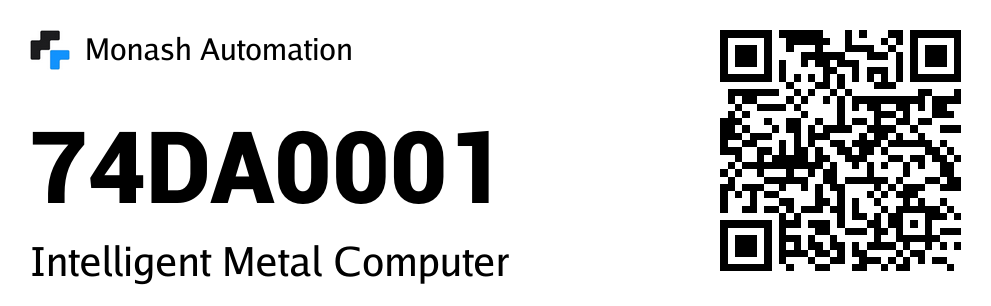
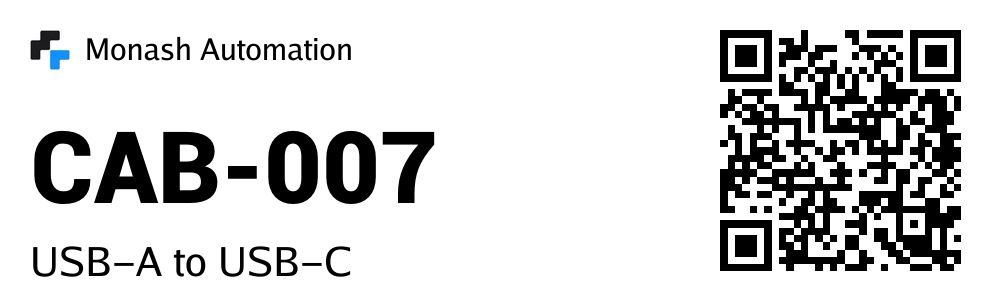
feat: add small cable label support and update README

Changed region(s): [[0.7265, 0.0882, 0.9687, 0.9118], [0.0303, 0.4118, 0.5146, 0.6765], [0.0303, 0.7941, 0.5146, 0.9412]]

diff --git a/format.go b/format.go
@@ -108,6 +108,66 @@ func formatSmallLabel(itemId, serial, name string) error {
 	return png.Encode(outFile, canvas)
 }
 
+func formatSmallCableLabel(itemId, serial, name string) error {
+	// DK-11204 cable label: left=text, middle=empty (cable gap), right=QR
+	canvas := image.NewRGBA(image.Rect(0, 0, SMALL_WIDTH, SMALL_HEIGHT))
+	draw.Draw(canvas, canvas.Bounds(), image.White, image.Point{}, draw.Src)
+
+	boldFont := "fonts/roboto-font/RobotoBlack-Powx.ttf"
+	normalFont := "fonts/roboto-font/RobotoRegular.ttf"
+
+	const (
+		sectionW       = SMALL_WIDTH / 3 // 198px per zone
+		logoSize       = 20
+		headerFontSize = 14.0
+		serialFontSize = 46.0
+		nameFontSize   = 17.0
+		nameLineHeight = 21
+	)
+
+	textAreaW := sectionW - SMALL_MARGINS*2
+
+	// Header row: logo + "Monash Automation"
+	_ = overlayImage(canvas, "assets/monash_automation_logo.png", SMALL_MARGINS, SMALL_MARGINS, logoSize, logoSize)
+	addTextWithFont(canvas, SMALL_MARGINS+logoSize+4, SMALL_MARGINS, "Monash Automation", headerFontSize, normalFont, false)
+
+	// Serial — below header
+	addTextWithFont(canvas, SMALL_MARGINS, SMALL_MARGINS+logoSize+2, serial, serialFontSize, boldFont, true)
+
+	// Name — word-wrapped, pinned to bottom of left zone
+	nameLines := wrapText(name, textAreaW, nameFontSize, normalFont, false)
+	nameBlockH := len(nameLines) * nameLineHeight
+	nameStartY := SMALL_HEIGHT - SMALL_MARGINS - nameBlockH
+	for i, line := range nameLines {
+		addTextWithFont(canvas, SMALL_MARGINS, nameStartY+i*nameLineHeight, line, nameFontSize, normalFont, false)
+	}
+
+	// QR — right zone, vertically centred
+	qrSize := SMALL_HEIGHT - SMALL_MARGINS*2
+	qrX := SMALL_WIDTH - sectionW + SMALL_MARGINS
+	createQRAt(canvas, itemId, qrSize, qrX, SMALL_MARGINS)
+
+	outFile, err := os.Create("temp/label_small_cable.png")
+	if err != nil {
+		return err
+	}
+	defer outFile.Close()
+
+	return png.Encode(outFile, canvas)
+}
+
+func createQRAt(canvas *image.RGBA, itemId string, size, x, y int) error {
+	qr, err := qrcode.New(itemId, qrcode.High)
+	if err != nil {
+		return err
+	}
+	qr.DisableBorder = true
+	qrImg := qr.Image(size)
+	offset := image.Pt(x, y)
+	draw.Draw(canvas, qrImg.Bounds().Add(offset), qrImg, image.Point{}, draw.Over)
+	return nil
+}
+
 func createSmallQR(canvas *image.RGBA, itemId string, length, yOffset int) error {
 	qr, err := qrcode.New(itemId, qrcode.High)
 	if err != nil {

diff --git a/main.go b/main.go
@@ -38,7 +38,15 @@ func printHandler(w http.ResponseWriter, r *http.Request) {
 			json.NewEncoder(w).Encode(ErrorResponse{Ok: false, Error: err.Error()})
 			return
 		}
-	default: // 0: standard, 2: cable (both use standard format)
+	case 2: // small cable
+		labelFile = "temp/label_small_cable.png"
+		printerName = SMALL_PRINTER_NAME
+		if err := formatSmallCableLabel(request.ItemId, request.Serial, request.Name); err != nil {
+			w.WriteHeader(http.StatusInternalServerError)
+			json.NewEncoder(w).Encode(ErrorResponse{Ok: false, Error: err.Error()})
+			return
+		}
+	default: // 0: standard
 		labelFile = "temp/label.png"
 		printerName = STANDARD_PRINTER_NAME
 		if err := formatLabel(request.ItemId, request.Serial, request.Name); err != nil {

diff --git a/validation.go b/validation.go
@@ -11,7 +11,7 @@ type Request struct {
 	Serial    string `json:"serial"`
 	Quantity  int    `json:"quantity"`
 	ItemId    string `json:"itemId"`
-	LabelType int    `json:"labelType"` // 0: standard, 1: small, 2: cable
+	LabelType int    `json:"labelType"` // 0: standard, 1: small, 2: small cable
 }
 
 type SuccessResponse struct {
@@ -80,7 +80,7 @@ func validJson(req *Request, write http.ResponseWriter) bool {
 		write.WriteHeader(http.StatusBadRequest)
 		json.NewEncoder(write).Encode(ErrorResponse{
 			Ok:    false,
-			Error: "LabelType must be 0 (standard), 1 (small), or 2 (cable)",
+			Error: "LabelType must be 0 (standard), 1 (small), or 2 (small cable)",
 		})
 		return false
 	}

diff --git a/README.md b/README.md
@@ -32,8 +32,8 @@ go install       # Compiles and installs binary
 ```
 
 3. **Configure printers:**
-   - Ensure the standard/cable printer is installed in CUPS as `brother_ql.700`
-   - Ensure the small label printer is installed in CUPS as `brother_ql.700_small`
+   - Ensure the standard/cable printer is installed in CUPS as `brother_ql.700` using DK-11201 label stock
+   - Ensure the small label printer is installed in CUPS as `brother_ql.700_small` using DK-11204 label stock
    - Verify with: `lpstat -p -d`
    - To use different CUPS names, update `STANDARD_PRINTER_NAME` and `SMALL_PRINTER_NAME` in `main.go`
 
@@ -115,7 +115,7 @@ curl -X POST http://localhost:6767/printer \
   }'
 ```
 
-**Cable label (DK-11201, 29mm × 90mm — same format as standard):**
+**Small cable label (DK-11204, 17mm × 54mm, folds over cable):**
 ```bash
 curl -X POST http://localhost:6767/printer \
   -H "Content-Type: application/json" \
@@ -134,17 +134,24 @@ curl -X POST http://localhost:6767/printer \
 |------|-------|--------------|--------|---------|
 | Standard (0) | DK-11201 | 29mm × 90mm | 306 × 991 px | `brother_ql.700` |
 | Small (1) | DK-11204 | 17mm × 54mm | 187 × 594 px | `brother_ql.700_small` |
-| Cable (2) | DK-11201 | 29mm × 90mm | 306 × 991 px | `brother_ql.700` |
+| Small Cable (2) | DK-11204 | 17mm × 54mm | 187 × 594 px | `brother_ql.700_small` |
 
-**Standard / Cable label:**
+**Standard:**
 - QR code: 241 × 241 px (High error correction)
 - Margins: 30 px
 - Serial: 100pt bold · Name: 40pt regular · Header: 30pt regular
 
-**Small label:**
+**Small:**
 - QR code: 160 × 160 px (High error correction)
 - Margins: 10 px
-- Serial: 52pt bold · Name: 20pt regular
+- Serial: 80pt bold · Name: 20pt regular
+
+**Small Cable:**
+- Designed to fold over a cable along the y-axis
+- Left zone (~18mm): serial number (52pt bold) + item name (17pt regular, word-wrapped)
+- Middle zone (~18mm): intentionally blank — cable rests here
+- Right zone (~18mm): QR code (167 × 167 px, High error correction)
+- Margins: 10 px
 
 ## Project Structure
 
